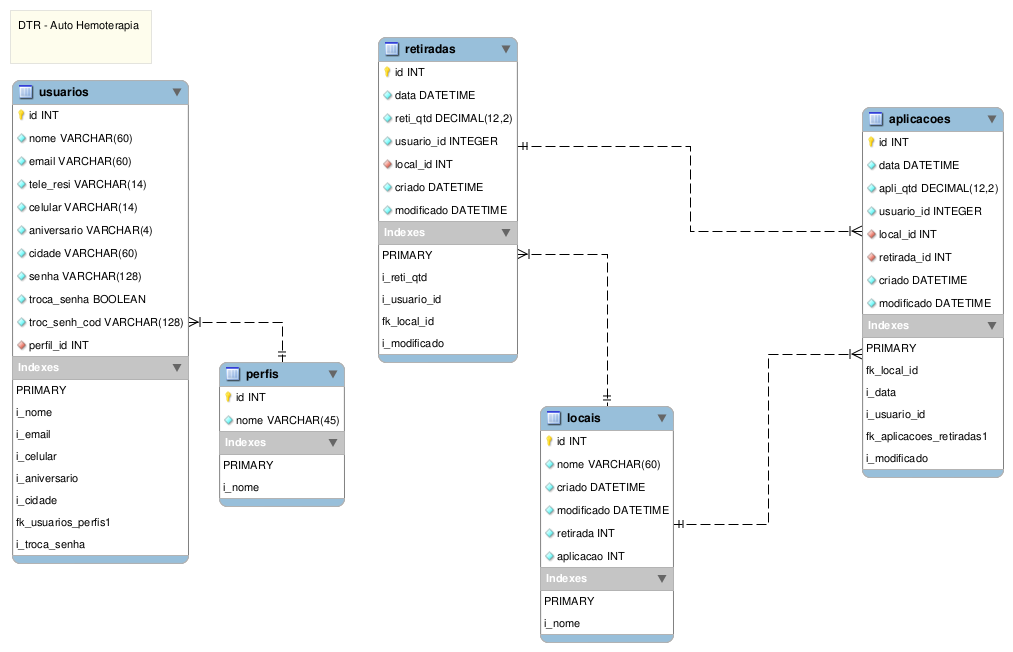
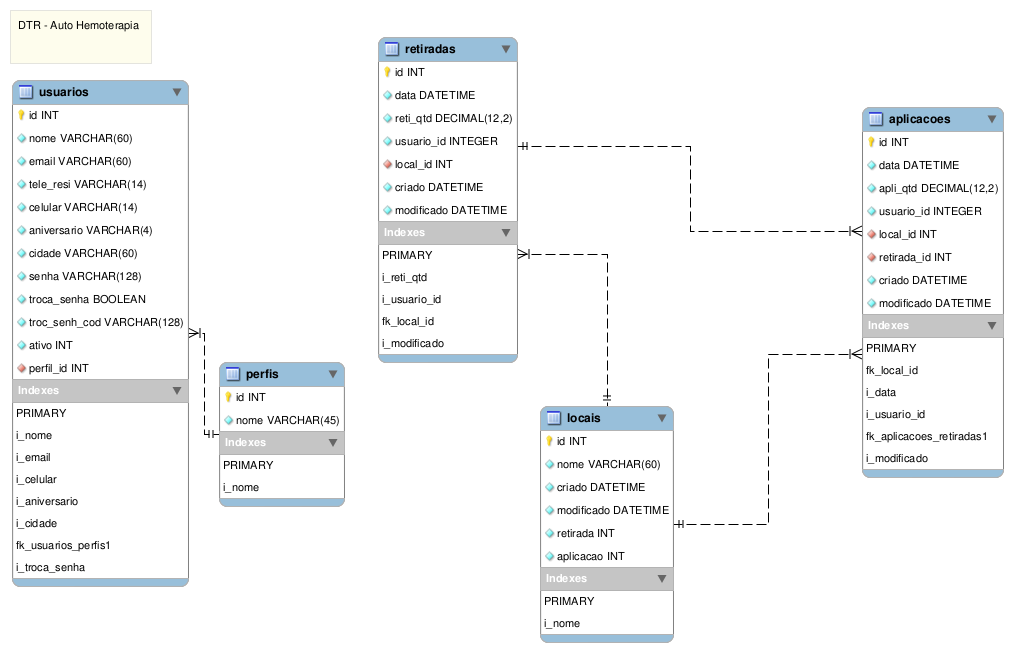
implementação da tela pra novo registro.

Changed region(s): [[0.0, 0.5215, 0.2142, 0.9202], [0.1836, 0.4908, 0.2142, 0.5215]]

diff --git a/js/novo_registro.js b/js/novo_registro.js
@@ -1,0 +1,18 @@
+function validaForm()
+{
+	var nome 	= $("#UsuarioNome").val();
+	var email 	= $("#UsuarioEmail").val();
+	if (nome.length==0)
+	{
+		alert('Nome inválido !!!');
+		$("#UsuarioNome").focus();
+		return false;
+	}
+	if (email.length==0)
+	{
+		alert('e-mail inválido !!!');
+		$("#UsuarioEmail").focus();
+		return false;
+	}
+	return true;
+}

diff --git a/app/Site.php b/app/Site.php
@@ -259,7 +259,7 @@ class Site {
 	}
 
 	/**
-	 * Configura o debug
+	 * Liga ou desliga o modo debug
 	 *
 	 * @return void
 	 */
@@ -515,6 +515,7 @@ class Site {
 
 				$data['0']['Usuario']['senha'] = encripta($_POST['data']['0']['Usuario']['senha']);
 				$data['0']['Usuario']['troc_senh_cod'] = '';
+				$data['0']['Usuario']['ativo'] = 1;
 				if (!$Usuario->save($data))
 				{
 					die('Erro ao tentar trocar senha !!!');
@@ -525,6 +526,102 @@ class Site {
 			{
 				$this->viewVars['msgErro'] = 'O Campo senha é de preenchimento obrigatório !!!';
 			}
+		}
+	}
+
+	/**
+	 * Cria um novo registro do sistema
+	 *
+	 * @param string $nome Nome do usuário
+	 * @param string $email e-mail do usuário
+	 * @return void
+	 */
+	public function novo_registro()
+	{
+		$nome = isset($_POST['data']['0']['Usuario']['nome']) 
+			? $_POST['data']['0']['Usuario']['nome']
+			: null;
+		$email = isset($_POST['data']['0']['Usuario']['email']) 
+			? $_POST['data']['0']['Usuario']['email']
+			: null;
+		$this->viewVars['nome'] 	= $nome;
+		$this->viewVars['email'] 	= $email;
+
+		if (!empty($nome) && !empty($email))
+		{
+			// verifica se o e-mail já foi cadastrado
+			require_once(APP.'Model/Usuario.php');
+			$Usuario = new Usuario();
+			$params['where']['Usuario.email'] = $email;
+			$data = $Usuario->find('first',$params);
+			$this->sqls['Usuario'] = $Usuario->sqls;
+			if (count($data))
+			{
+				$this->viewVars['msgErro'] = 'Este e-mail já se encontra cadastrado !!!';
+			} else // se não, cria o registro mas com status inativo
+			{
+				$data = $_POST['data'];
+				$data['0']['Usuario']['ativo'] 			= 0;
+				$data['0']['Usuario']['perfil_id'] 		= 3;
+				$data['0']['Usuario']['senha'] 			= encripta('123mudar');
+				$data['0']['Usuario']['troc_senh_cod'] 	= encripta(date('d/m/Y H:i:s'));
+				if (!$Usuario->save($data))
+				{
+					$this->viewVars['msgErro'] = 'Não foi possível salvar o novo registro ';
+				} else
+				{
+					require_once(APP.'Config/email.php');
+					$Email = new Email_Config();
+
+					require_once(APP.'Vendor/PHPMailer/class.phpmailer.php');
+					$Mail = new PHPMailer();
+					$Mail->isSmtp();
+					$Mail->isHtml();
+					$Mail->CharSet 		= "UTF-8";
+					$Mail->SMTPAuth 	= true;
+					$Mail->SMTPSecure 	= 'ssl';
+
+					// remetente
+					$Mail->From 		= "nao_responda@site.com.br";
+					$Mail->Sender 		= $Email->default['usuario'];
+					$Mail->FromName 	= $Email->default['nome'];
+
+					// conta de e-mail 
+					$Mail->Host 		= $Email->default['smtp'];
+					$Mail->Port 	 	= $Email->default['porta'];
+					$Mail->Username 	= $Email->default['usuario'];
+					$Mail->Password 	= $Email->default['senha'];
+					$Mail->Subject 		= "Novo Cadastro";
+
+					$Mail->AddAddress($email);
+
+					$msg = "";
+					$msg .= "Caro ".$data['0']['Usuario']['nome'].", ";
+					$msg .= "<br /><br />";
+					$msg .= "No dia ".date('d/m/Y')." aproximadamente as ".date('H')." horas e ".date('i')." minutos, 
+					foi feita uma solicitação de conta no nosso site, caso não reconheça este pedido, 
+					favor desconsiderar este e-mail, o pedido será cancelado em até uma semana.<br /><br />
+					Do contrário, clique no link abaixo para ativar sua conta.<br /><br />";
+					$msg .= strtolower($this->base."trocar_senha/email:"
+					.$data['0']['Usuario']['email']
+					."/codigo:".$data['0']['Usuario']['troc_senh_cod']);
+					$msg .= "<br /><br />
+
+					att.<br />
+					Administrador AutoHemo";
+
+					$Mail->Body = $msg;
+					$enviado = $Mail->Send();
+					if (!$enviado)
+					{
+						$this->viewVars['msgErro'] = 'Não foi possível enviar o e-mail de validação. '.$Mail->ErrorInfo;
+					} else
+					{
+						$this->viewVars['msgOk'] = 'As instruções para ativação da conta, foi enviada com sucesso para seu o '.$email;
+					}
+				}
+			}
+
 		}
 	}
 }

diff --git a/index.php b/index.php
@@ -55,7 +55,7 @@ $(document).ready(function()
     <nav class="navbar navbar-default navbar-fixed-top">
         <div class="container">
             <div class="navbar-header page-scroll">
-                <a class="navbar-brand" href="<?= $Site->base ?>"><?= $Site->sistema ?></a>
+                <a class="navbar-brand" href="<?= $Site->base ?>"><?= $Site->sistema ?> (Desenvolvimento)</a>
             </div>
 
             <!-- Collect the nav links, forms, and other content for toggling -->
@@ -116,13 +116,13 @@ $(document).ready(function()
     <?php if (isset($_SESSION['debug'])) : ?>
     <section>
         <div class='container erros'>
-            <?php include_once(APP.'sql_erros.php') ?>
+            <?php include_once(APP.'View/Elements/sql_erros.php') ?>
         </div>
     </section>
 
     <section>
         <div class='container sqls'>
-            <?php include_once(APP.'sql_dump.php') ?>
+            <?php include_once(APP.'View/Elements/sql_dump.php') ?>
         </div>
     </section>
     <?php endif ?>

diff --git a/app/Config/email.php b/app/Config/email.php
@@ -14,6 +14,7 @@ class Email_Config {
 	 */
 	public $default = array
 	(
+		'nome' 		=> 'Administrador Autohemo',
 		'smtp'		=> 'smtp.gmail.com',
 		'usuario'	=> '',
 		'senha'		=> '',
